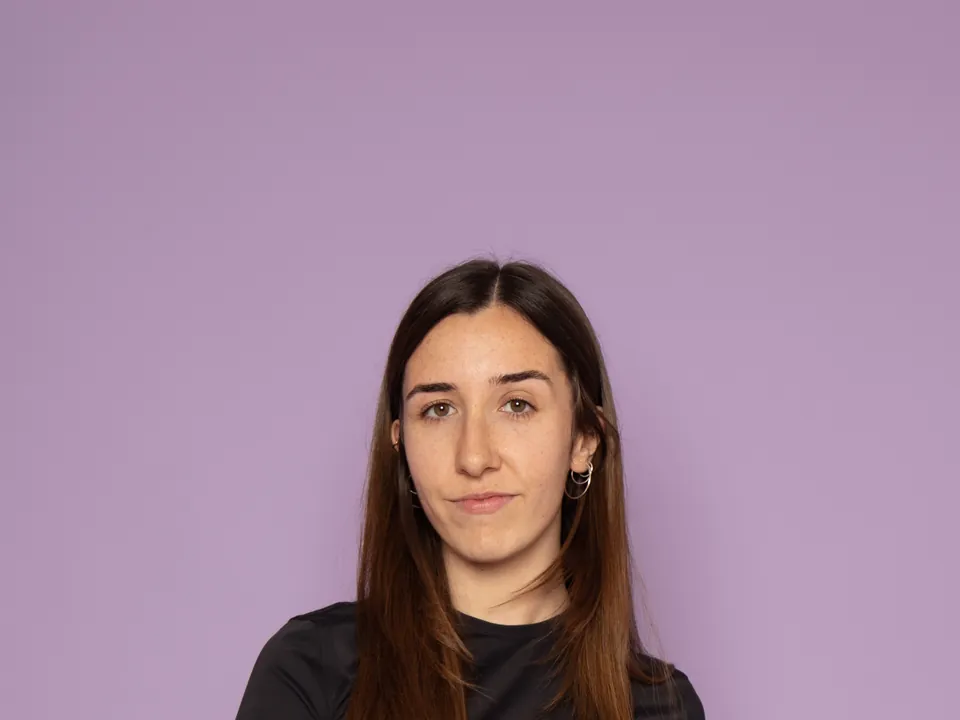
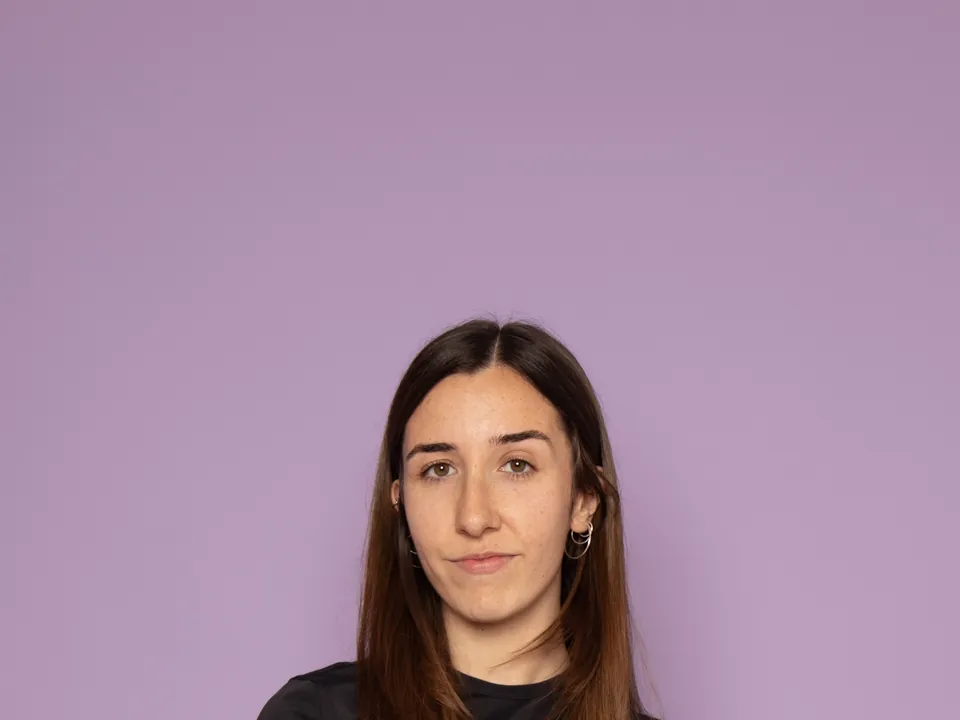
feat: actualitza home i assets Anaïs

Changed region(s): [[0.25, 0.3361, 0.75, 1.0], [0.3438, 0.9778, 0.375, 1.0]]

diff --git a/docs/ASSETS.md b/docs/ASSETS.md
@@ -1,0 +1,47 @@
+# ASSETS — Origen i drets dels assets externs
+
+Registre dels assets que NO són creats per Anaïs ni per aquest projecte. Tots estan guardats en local (sense hotlinks permanents).
+
+Estat de drets: **cap fotografia externa té els drets verificats.** Abans de la publicació definitiva cal demanar/verificar permís d'ús (o substituir-les per material propi).
+
+## Projectes destacats (Home)
+
+Composició de cada targeta: fotografia (`public/images/projects/`) + overlay CSS + logotip superposat. Estils a `src/styles/components/projects.css`, dades a `src/data/projects.json`.
+
+### FeminismeZ
+
+| Tipus | Font | URL original | Fitxer local | Estat drets |
+|---|---|---|---|---|
+| Logo | Asset propi del projecte (ja existent) | — | `public/images/logo feminisme z/Logo_FZ_Transparent_negre (2).png` | Marca pròpia d'Anaïs. Es retalla els marges transparents amb CSS; no s'ha duplicat ni modificat el fitxer. |
+| Fotografia | Sessió fotogràfica d'Anaïs (material propi) | — | `public/images/projects/feminismez.webp` (retall 4:3 de `public/images/anais/IMG_6979.jpg`) | Material propi. |
+
+Nota: s'ha descartat el thumbnail d'episodi (prioritat 1 de l'encàrrec) perquè són escenes fosques amb el logotip i el títol ja impresos; el logo real és negre i no hi tindria contrast.
+
+### La Directa
+
+| Tipus | Font | URL original | Fitxer local | Estat drets |
+|---|---|---|---|---|
+| Logo | directa.cat (SVG inline de la capçalera del web oficial, sense l'indicador "live") | https://directa.cat/ | `public/images/logos/la-directa.svg` (vermell oficial `#BF2C22`) i `public/images/logos/la-directa-blanc.svg` (variant monocroma blanca, la que s'utilitza) | Logo corporatiu / ús identificatiu |
+| Fotografia | Article d'Anaïs a La Directa «Ser queer té molt a veure amb abraçar la monstruositat» (Samantha Hudson; mateixa imatge que a Articles destacats) | https://directa.cat/app/uploads/2026/05/Samantha_Hudson_arxiu_02-1024x683.jpg | `public/images/projects/la-directa.webp` (retall 4:3) | TODO: verificar drets d'ús abans de publicació definitiva |
+
+### RAC1
+
+| Tipus | Font | URL original | Fitxer local | Estat drets |
+|---|---|---|---|---|
+| Logo | rac1.cat (SVG inline del peu del web oficial). Identitat estàndard negre + vermell; NO és el logo commemoratiu dels 25 anys | https://www.rac1.cat/ | `public/images/logos/rac1.svg` | Logo corporatiu / ús identificatiu |
+| Fotografia | rac1.cat, secció «La primera pedra» — peça «Marta Vilamajó, organitzadora professional…» (estudi de RAC1 amb micròfons RAC) | Imatge: https://www.rac1.cat/files/fp/uploads/2026/04/08/69d605529875a.r_d.655-208-3164.jpeg · Peça: https://www.rac1.cat/llar/20260407/336568/marta-vilamajo-organitzadora-professional-carmanyola-solta-sense-tapa-utilitzar-colocar-tapes-vertical-vista-primerapedra.html | `public/images/projects/rac1.webp` (retall 4:3) | TODO: verificar drets d'ús abans de publicació definitiva. No hi apareix Anaïs (no s'ha trobat cap foto seva a rac1.cat). |
+
+### Teatre Barcelona
+
+| Tipus | Font | URL original | Fitxer local | Estat drets |
+|---|---|---|---|---|
+| Logo | teatrebarcelona.com (SVG inline `#tb-site-logo` de la capçalera/peu del web oficial; el JPG `logo-tb-quadrat.jpg` és opac i s'ha descartat) | https://www.teatrebarcelona.com/ | `public/images/logos/teatre-barcelona.svg` (colors oficials) i `public/images/logos/teatre-barcelona-blanc.svg` (variant monocroma blanca, la que s'utilitza) | Logo corporatiu / ús identificatiu |
+| Fotografia | Article «El teatre com a eina de transformació social», imatge «Fantàstic Ramon» | Imatge: https://www.teatrebarcelona.com/wp-content/uploads/2024/06/TEATRE-BARCELONA-Fantastic-Ramon-5.jpg · Article: https://www.teatrebarcelona.com/revista/el-teatre-com-a-eina-de-transformacio-social | `public/images/projects/teatre-barcelona.webp` (retall 4:3) | TODO: verificar drets d'ús abans de publicació definitiva |
+
+## Variants monocromes dels logos
+
+`la-directa-blanc.svg` i `teatre-barcelona-blanc.svg` són el mateix vector oficial amb `fill` blanc, perquè els logos oficials només existeixen en colors foscos/vermell i les fotografies són fosques. Validar amb cada marca que aquest ús és acceptable.
+
+## Pendents (fora d'aquesta secció)
+
+- Les imatges de `src/data/articles.json` (La Directa) i els thumbnails de `src/data/videos.json` (YouTube) continuen en hotlink. TODO: descarregar-les en local i documentar-les aquí.
